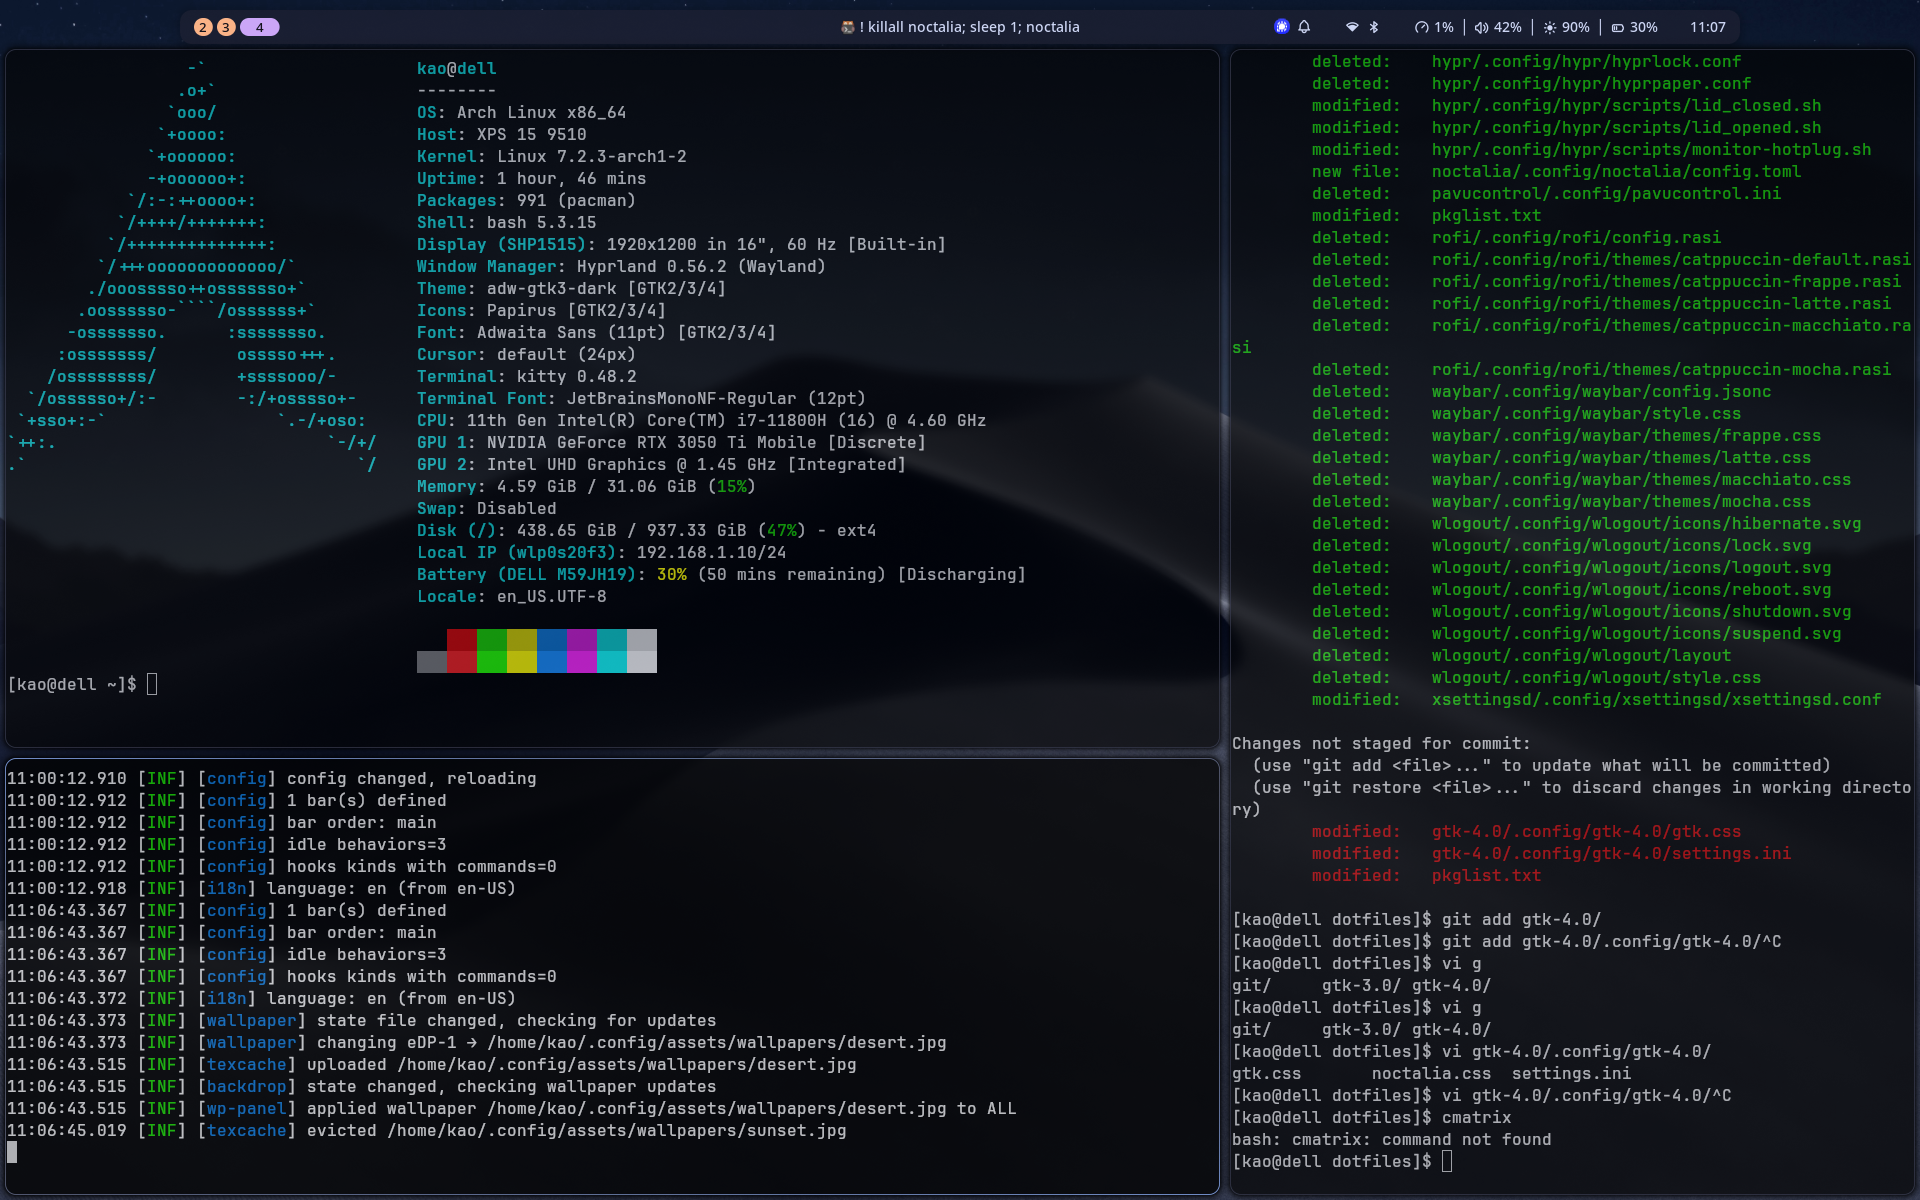
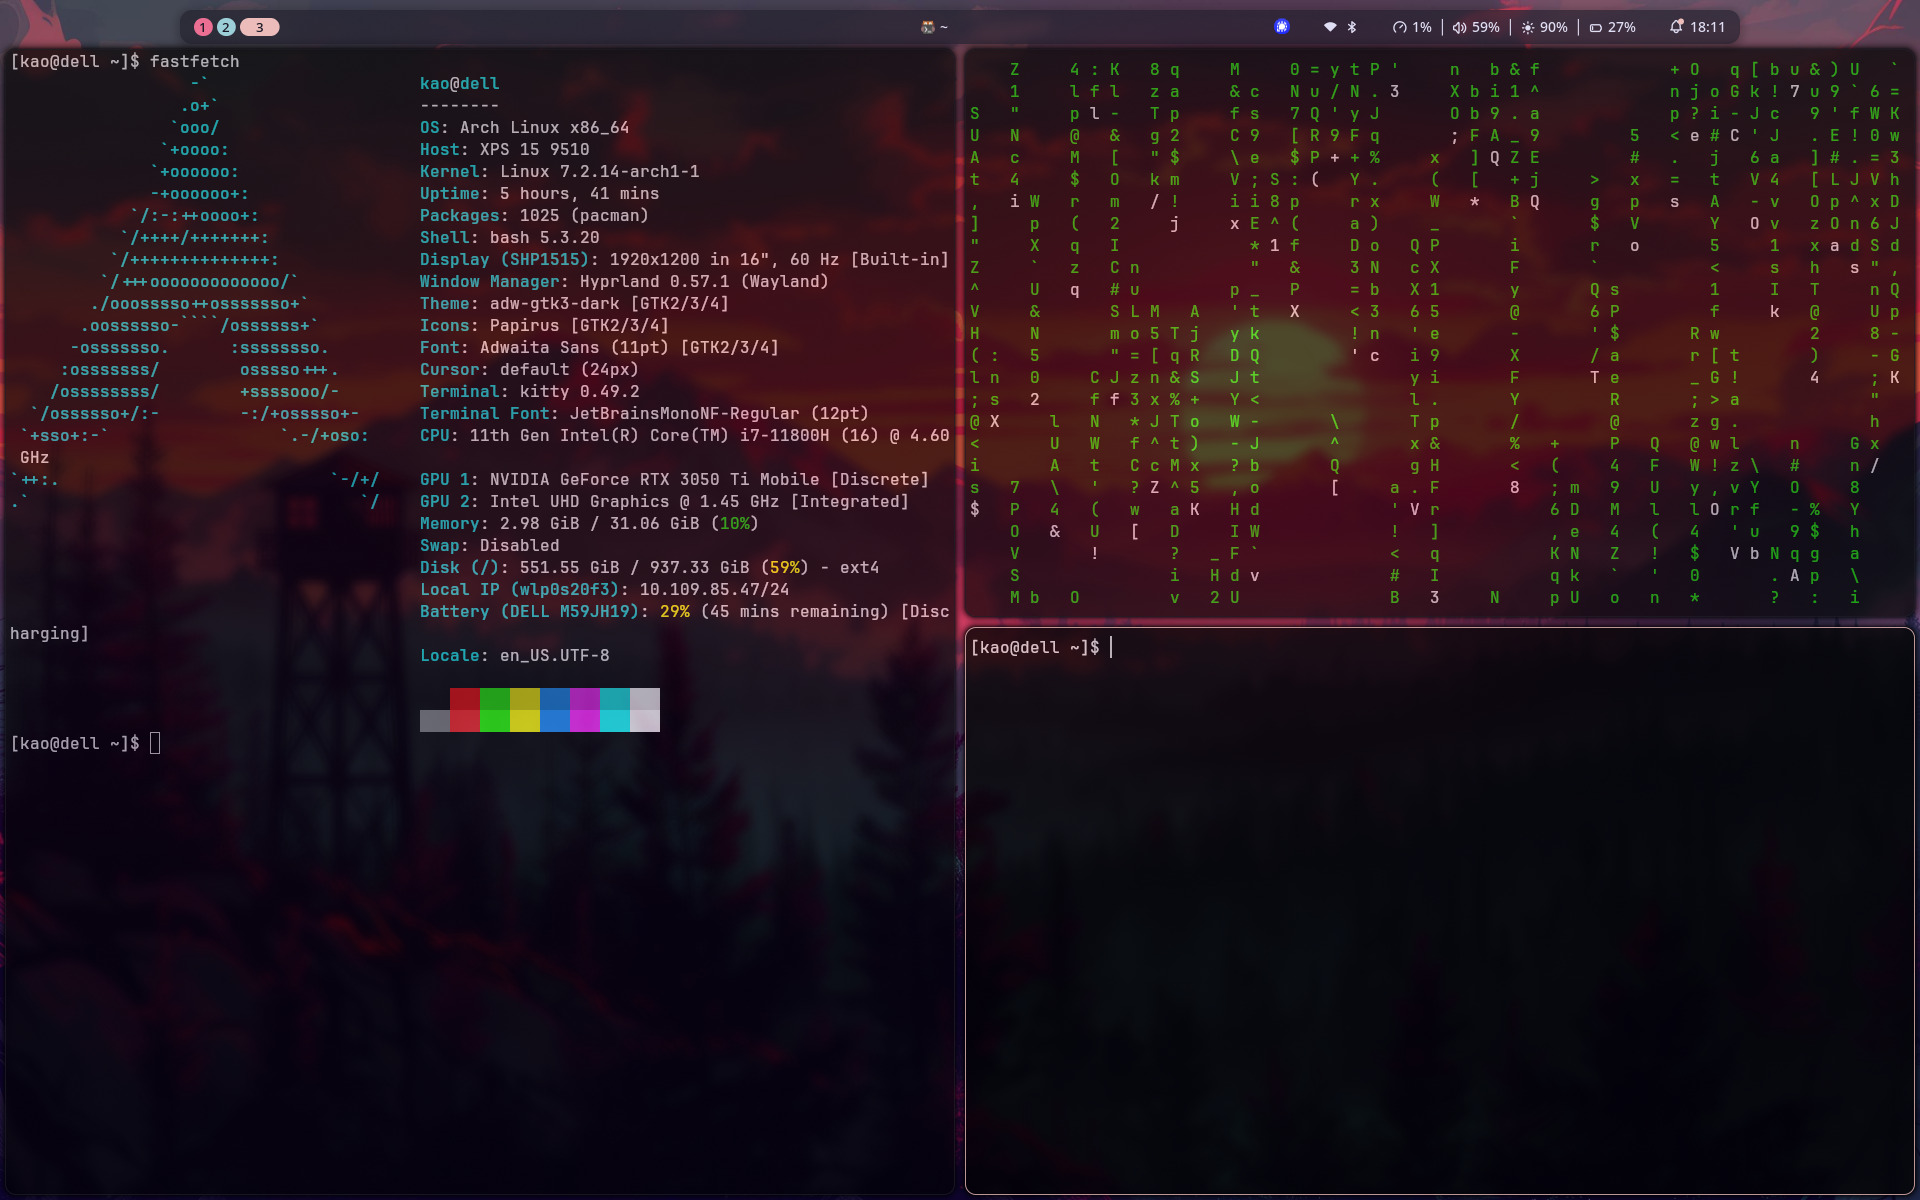
docs: update readme and screenshot

diff --git a/README.md b/README.md
@@ -1,6 +1,7 @@
 # dotfiles
 
-My configs for Arch + Hyprland. Based heavily on [Catppuccin](https://catppuccin.com/palette/) color palette.
+My configs for Arch + Hyprland, with [Noctalia](https://noctalia.dev) as the shell (bar, launcher, notifications, lock screen, wallpaper).
+Colors come from the Noctalia theme, which also generates the GTK and Hyprland border colors.
 
 
 
@@ -14,11 +15,11 @@ My configs for Arch + Hyprland. Based heavily on [Catppuccin](https://catppuccin
 The simplest way is to use [GNU stow](https://www.gnu.org/software/stow/): 
 
 ```bash
-stow hypr waybar rofi kitty # ... and other configs you need
+stow -t ~ bash git gtk-3.0 gtk-4.0 hypr kitty noctalia
 ```
 For `greetd` (the display manager, running the Noctalia Greeter), the files are
 system files — copy them in manually, see [greetd/README.md](greetd/README.md).
 
 You can also copy contents of each config manually, without using stow at all. 
 
-All dependencies are in pkglist.txt. You can install them with yay: `yay -S --needed < pkglist.txt`. Note, however, that they list ALL my essential packages. 
+All dependencies are in pkglist.txt. You can install them with yay: `yay -S --needed - < pkglist.txt`. Note, however, that they list ALL my essential packages. Regenerate the list with `./update_pkglist.sh`.
